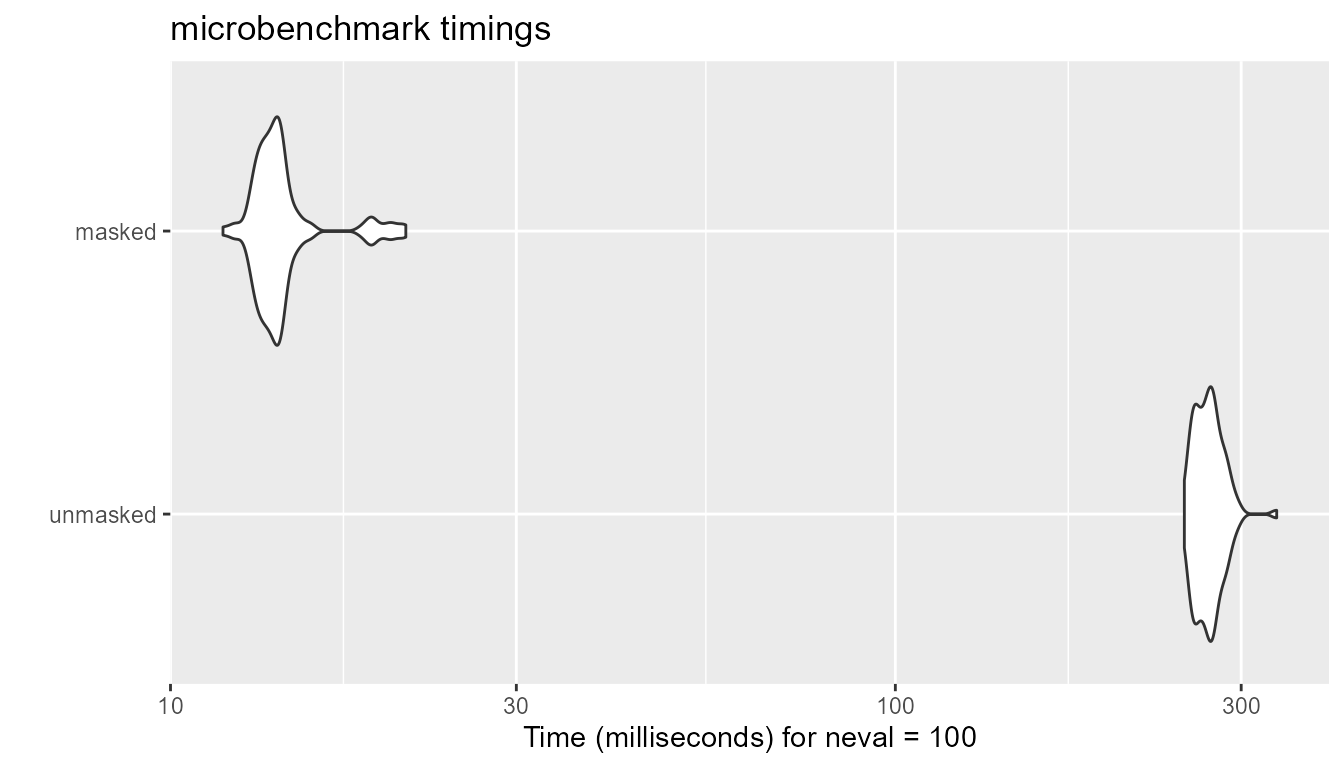
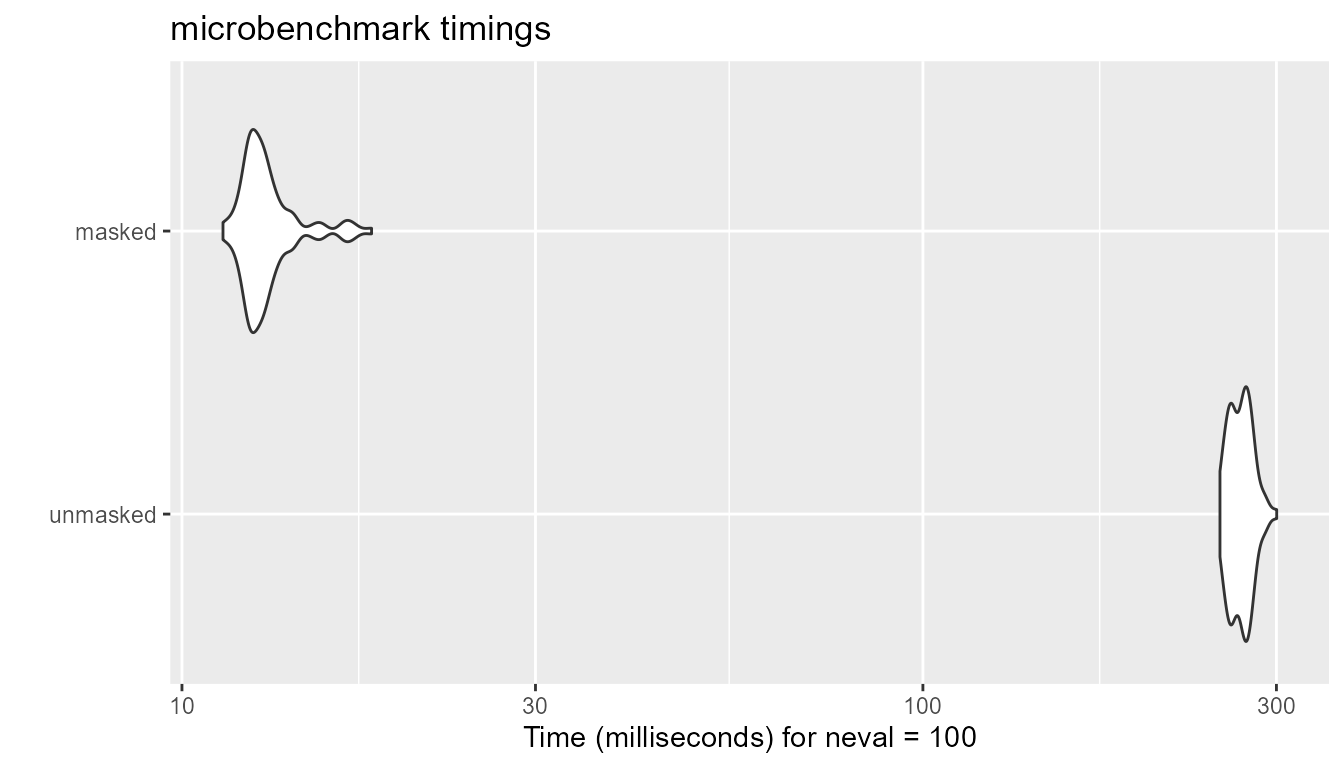
Update article

diff --git a/docs/articles/masking.html b/docs/articles/masking.html
@@ -62,7 +62,7 @@
                         <h4 data-toc-skip class="author">Kohei
 Watanabe</h4>
             
-            <h4 data-toc-skip class="date">2025-04-17</h4>
+            <h4 data-toc-skip class="date">2025-04-18</h4>
       
       <small class="dont-index">Source: <a href="https://github.com/koheiw/proxyC/blob/HEAD/vignettes/articles/masking.Rmd" class="external-link"><code>vignettes/articles/masking.Rmd</code></a></small>
       <div class="d-none name"><code>masking.Rmd</code></div>
@@ -97,15 +97,15 @@ passing it to <code><a href="../reference/simil.html">simil()</a></code>.</p>
 <span><span class="co">#&gt; d . . . | .</span></span>
 <span><span class="co">#&gt; e . . . . |</span></span>
 <span><span class="co">#&gt; e . . . . |</span></span>
-<span><span class="op">(</span><span class="va">sim</span> <span class="op">&lt;-</span> <span class="fu"><a href="../reference/simil.html">simil</a></span><span class="op">(</span><span class="va">mt1</span>, <span class="va">mt2</span>, margin <span class="op">=</span> <span class="fl">2</span>, method <span class="op">=</span> <span class="st">"cosine"</span>, mask <span class="op">=</span> <span class="va">msk</span>, drop0 <span class="op">=</span> <span class="cn">TRUE</span><span class="op">)</span><span class="op">)</span></span>
+<span><span class="op">(</span><span class="va">sim</span> <span class="op">&lt;-</span> <span class="fu"><a href="../reference/simil.html">simil</a></span><span class="op">(</span><span class="va">mt1</span>, <span class="va">mt2</span>, margin <span class="op">=</span> <span class="fl">2</span>, method <span class="op">=</span> <span class="st">"cosine"</span>, mask <span class="op">=</span> <span class="va">msk</span>, use_nan <span class="op">=</span> <span class="cn">TRUE</span><span class="op">)</span><span class="op">)</span></span>
 <span><span class="co">#&gt; 6 x 5 sparse Matrix of class "dgTMatrix"</span></span>
-<span><span class="co">#&gt;             a b c           d           e</span></span>
-<span><span class="co">#&gt; a  0.10463988 . .  .           .         </span></span>
-<span><span class="co">#&gt; a -0.09258201 . .  .           .         </span></span>
-<span><span class="co">#&gt; d  .          . . -0.06961173  .         </span></span>
-<span><span class="co">#&gt; d  .          . . -0.07654895  .         </span></span>
-<span><span class="co">#&gt; e  .          . .  .          -0.03211685</span></span>
-<span><span class="co">#&gt; e  .          . .  .           0.07722747</span></span></code></pre></div>
+<span><span class="co">#&gt;             a   b   c           d           e</span></span>
+<span><span class="co">#&gt; a  0.10463988 NaN NaN         NaN         NaN</span></span>
+<span><span class="co">#&gt; a -0.09258201 NaN NaN         NaN         NaN</span></span>
+<span><span class="co">#&gt; d         NaN NaN NaN -0.06961173         NaN</span></span>
+<span><span class="co">#&gt; d         NaN NaN NaN -0.07654895         NaN</span></span>
+<span><span class="co">#&gt; e         NaN NaN NaN         NaN -0.03211685</span></span>
+<span><span class="co">#&gt; e         NaN NaN NaN         NaN  0.07722747</span></span></code></pre></div>
 </div>
 <div class="section level2">
 <h2 id="execution-times">Execution Times<a class="anchor" aria-label="anchor" href="#execution-times"></a>
@@ -149,8 +149,8 @@ performance improvement in “jaccard”, “ejaccard”, “fjaccard”, “edi
 “hamann”, “faith” and”simple matching”.</p>
 <div class="sourceCode" id="cb4"><pre class="downlit sourceCode r">
 <code class="sourceCode R"><span><span class="va">bm</span> <span class="op">&lt;-</span> <span class="fu"><a href="https://rdrr.io/pkg/microbenchmark/man/microbenchmark.html" class="external-link">microbenchmark</a></span><span class="op">(</span></span>
-<span>    unmasked <span class="op">=</span> <span class="fu"><a href="../reference/simil.html">simil</a></span><span class="op">(</span><span class="va">mt1</span>, <span class="va">mt2</span>, margin <span class="op">=</span> <span class="fl">2</span>, method <span class="op">=</span> <span class="st">"dice"</span>, mask <span class="op">=</span> <span class="cn">NULL</span>, drop0 <span class="op">=</span> <span class="cn">TRUE</span><span class="op">)</span>,</span>
-<span>    masked <span class="op">=</span> <span class="fu"><a href="../reference/simil.html">simil</a></span><span class="op">(</span><span class="va">mt1</span>, <span class="va">mt2</span>, margin <span class="op">=</span> <span class="fl">2</span>, method <span class="op">=</span> <span class="st">"dice"</span>, mask <span class="op">=</span> <span class="va">msk</span>, drop0 <span class="op">=</span> <span class="cn">TRUE</span><span class="op">)</span></span>
+<span>    unmasked <span class="op">=</span> <span class="fu"><a href="../reference/simil.html">simil</a></span><span class="op">(</span><span class="va">mt1</span>, <span class="va">mt2</span>, margin <span class="op">=</span> <span class="fl">2</span>, method <span class="op">=</span> <span class="st">"jaccard"</span>, mask <span class="op">=</span> <span class="cn">NULL</span>, drop0 <span class="op">=</span> <span class="cn">TRUE</span><span class="op">)</span>,</span>
+<span>    masked <span class="op">=</span> <span class="fu"><a href="../reference/simil.html">simil</a></span><span class="op">(</span><span class="va">mt1</span>, <span class="va">mt2</span>, margin <span class="op">=</span> <span class="fl">2</span>, method <span class="op">=</span> <span class="st">"jaccard"</span>, mask <span class="op">=</span> <span class="va">msk</span>, drop0 <span class="op">=</span> <span class="cn">TRUE</span><span class="op">)</span></span>
 <span><span class="op">)</span></span>
 <span></span>
 <span><span class="fu"><a href="https://ggplot2.tidyverse.org/reference/autoplot.html" class="external-link">autoplot</a></span><span class="op">(</span><span class="va">bm</span><span class="op">)</span></span></code></pre></div>
@@ -161,13 +161,13 @@ performance improvement in “jaccard”, “ejaccard”, “fjaccard”, “edi
 <h2 id="object-sizes">Object Sizes<a class="anchor" aria-label="anchor" href="#object-sizes"></a>
 </h2>
 <p>Masking also dramatically reduces the sizes of similarity matrices
-when <code>drop0 = TRUE</code>.</p>
+when <code>use_nan = FALSE</code>.</p>
 <div class="sourceCode" id="cb5"><pre class="downlit sourceCode r">
-<code class="sourceCode R"><span><span class="va">sim_um</span> <span class="op">&lt;-</span> <span class="fu"><a href="../reference/simil.html">simil</a></span><span class="op">(</span><span class="va">mt1</span>, <span class="va">mt2</span>, margin <span class="op">=</span> <span class="fl">2</span>, method <span class="op">=</span> <span class="st">"cosine"</span>, mask <span class="op">=</span> <span class="cn">NULL</span>, drop0 <span class="op">=</span> <span class="cn">TRUE</span><span class="op">)</span></span>
-<span><span class="va">sim_mk</span> <span class="op">&lt;-</span> <span class="fu"><a href="../reference/simil.html">simil</a></span><span class="op">(</span><span class="va">mt1</span>, <span class="va">mt2</span>, margin <span class="op">=</span> <span class="fl">2</span>, method <span class="op">=</span> <span class="st">"cosine"</span>, mask <span class="op">=</span> <span class="va">msk</span>, drop0 <span class="op">=</span> <span class="cn">TRUE</span><span class="op">)</span></span>
+<code class="sourceCode R"><span><span class="va">sim_um</span> <span class="op">&lt;-</span> <span class="fu"><a href="../reference/simil.html">simil</a></span><span class="op">(</span><span class="va">mt1</span>, <span class="va">mt2</span>, margin <span class="op">=</span> <span class="fl">2</span>, method <span class="op">=</span> <span class="st">"cosine"</span>, mask <span class="op">=</span> <span class="cn">NULL</span>, use_nan <span class="op">=</span> <span class="cn">FALSE</span><span class="op">)</span></span>
+<span><span class="va">sim_mk</span> <span class="op">&lt;-</span> <span class="fu"><a href="../reference/simil.html">simil</a></span><span class="op">(</span><span class="va">mt1</span>, <span class="va">mt2</span>, margin <span class="op">=</span> <span class="fl">2</span>, method <span class="op">=</span> <span class="st">"cosine"</span>, mask <span class="op">=</span> <span class="va">msk</span>, use_nan <span class="op">=</span> <span class="cn">FALSE</span><span class="op">)</span></span>
 <span></span>
 <span><span class="fu"><a href="https://rdrr.io/r/base/print.html" class="external-link">print</a></span><span class="op">(</span><span class="fu"><a href="https://rdrr.io/r/utils/object.size.html" class="external-link">object.size</a></span><span class="op">(</span><span class="va">sim_um</span><span class="op">)</span>, unit <span class="op">=</span> <span class="st">"KB"</span><span class="op">)</span></span>
-<span><span class="co">#&gt; 1081.1 Kb</span></span>
+<span><span class="co">#&gt; 1081.2 Kb</span></span>
 <span><span class="fu"><a href="https://rdrr.io/r/base/print.html" class="external-link">print</a></span><span class="op">(</span><span class="fu"><a href="https://rdrr.io/r/utils/object.size.html" class="external-link">object.size</a></span><span class="op">(</span><span class="va">sim_mk</span><span class="op">)</span>, unit <span class="op">=</span> <span class="st">"KB"</span><span class="op">)</span></span>
 <span><span class="co">#&gt; 65.5 Kb</span></span></code></pre></div>
 </div>
